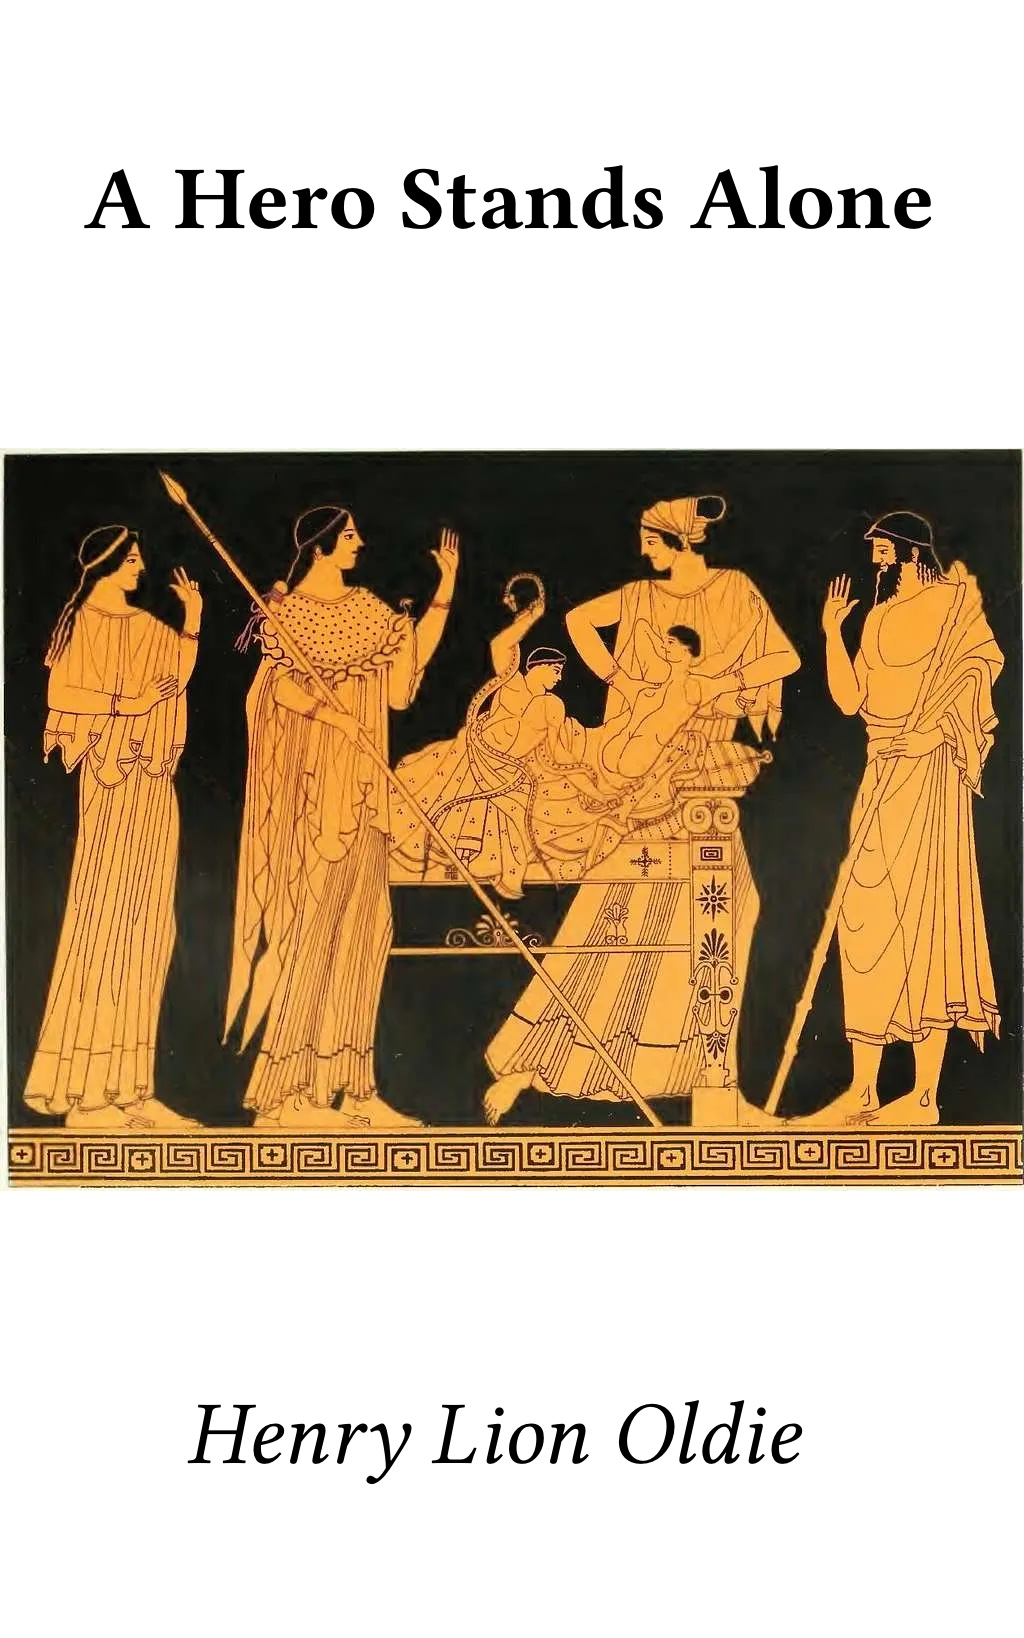
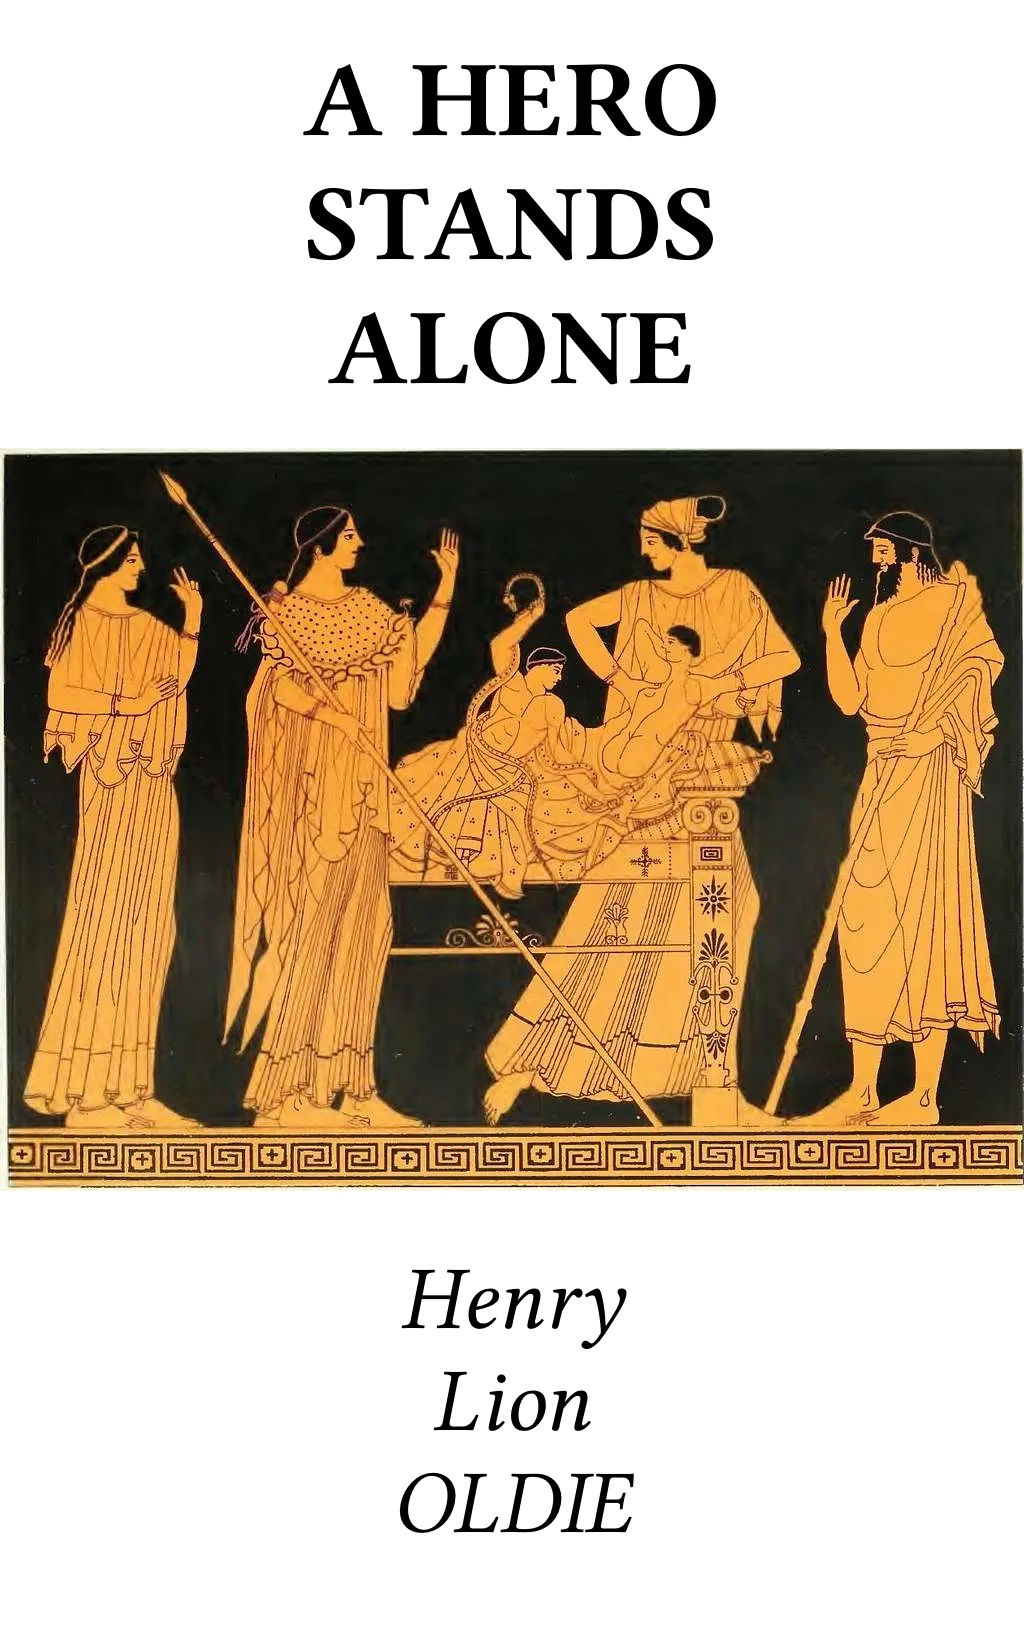
Update cover

Changed region(s): [[0.0938, 0.0311, 0.9062, 0.1557], [0.1875, 0.7784, 0.7812, 0.9341], [0.3125, 0.1868, 0.6875, 0.2491]]

diff --git a/CONVENTIONS.md b/CONVENTIONS.md
@@ -32,7 +32,7 @@ Don't make commits - I will handle it. Change files only when specifically instr
 - Character epithets (in the original usually attached to a name with a hyphen, occasionally preceding it):
   * An epithet denoting a group the character belongs to is written in the end with the definite artice: "Мойра Атропос" -> "Atropos the Moira", "Медуза Горгона"/"Горгона Медуза" -> "Medusa the Gorgon".
   * An epithet denoting the geographical origin is written in the end with the definite article, and translated: "Ифит-Ойхаллиец"/"Ифит-ойхаллиец" -> "Iphitos the Oichalian", "Миртил-фиванец" -> "Myrtilos the Theban".
-  * An epithet that is a common word and in the original is hyphenated, is written in the end with the definite article, capitalized, and translated: "Метида-мысль" -> "Metis the Thought", "Зевс-отец"/"Зевс-Отец" -> "Zeus the Father".
+  * An epithet that is a common word and in the original is hyphenated, is written in the end with the definite article, capitalized, and translated: "Метида-мысль" -> "Metis the Thought".
   * An epithet that is an adjective and in the original is written before the name, is written before the name in English as well: "Трехтелая Геката" -> "Three-Formed Hekate".
   * An epithet that is a transliterated Greek word is written in the end, transliterated in English, without an article: "Гермес-Киллений" -> "Hermes Kyllenios", "Зевс-Бротолойгос" -> "Zeus Brotoloigos".
 - See `GLOSSARY.md` for settled names, places, and terms. Check it before translating a proper noun that may have appeared before.
